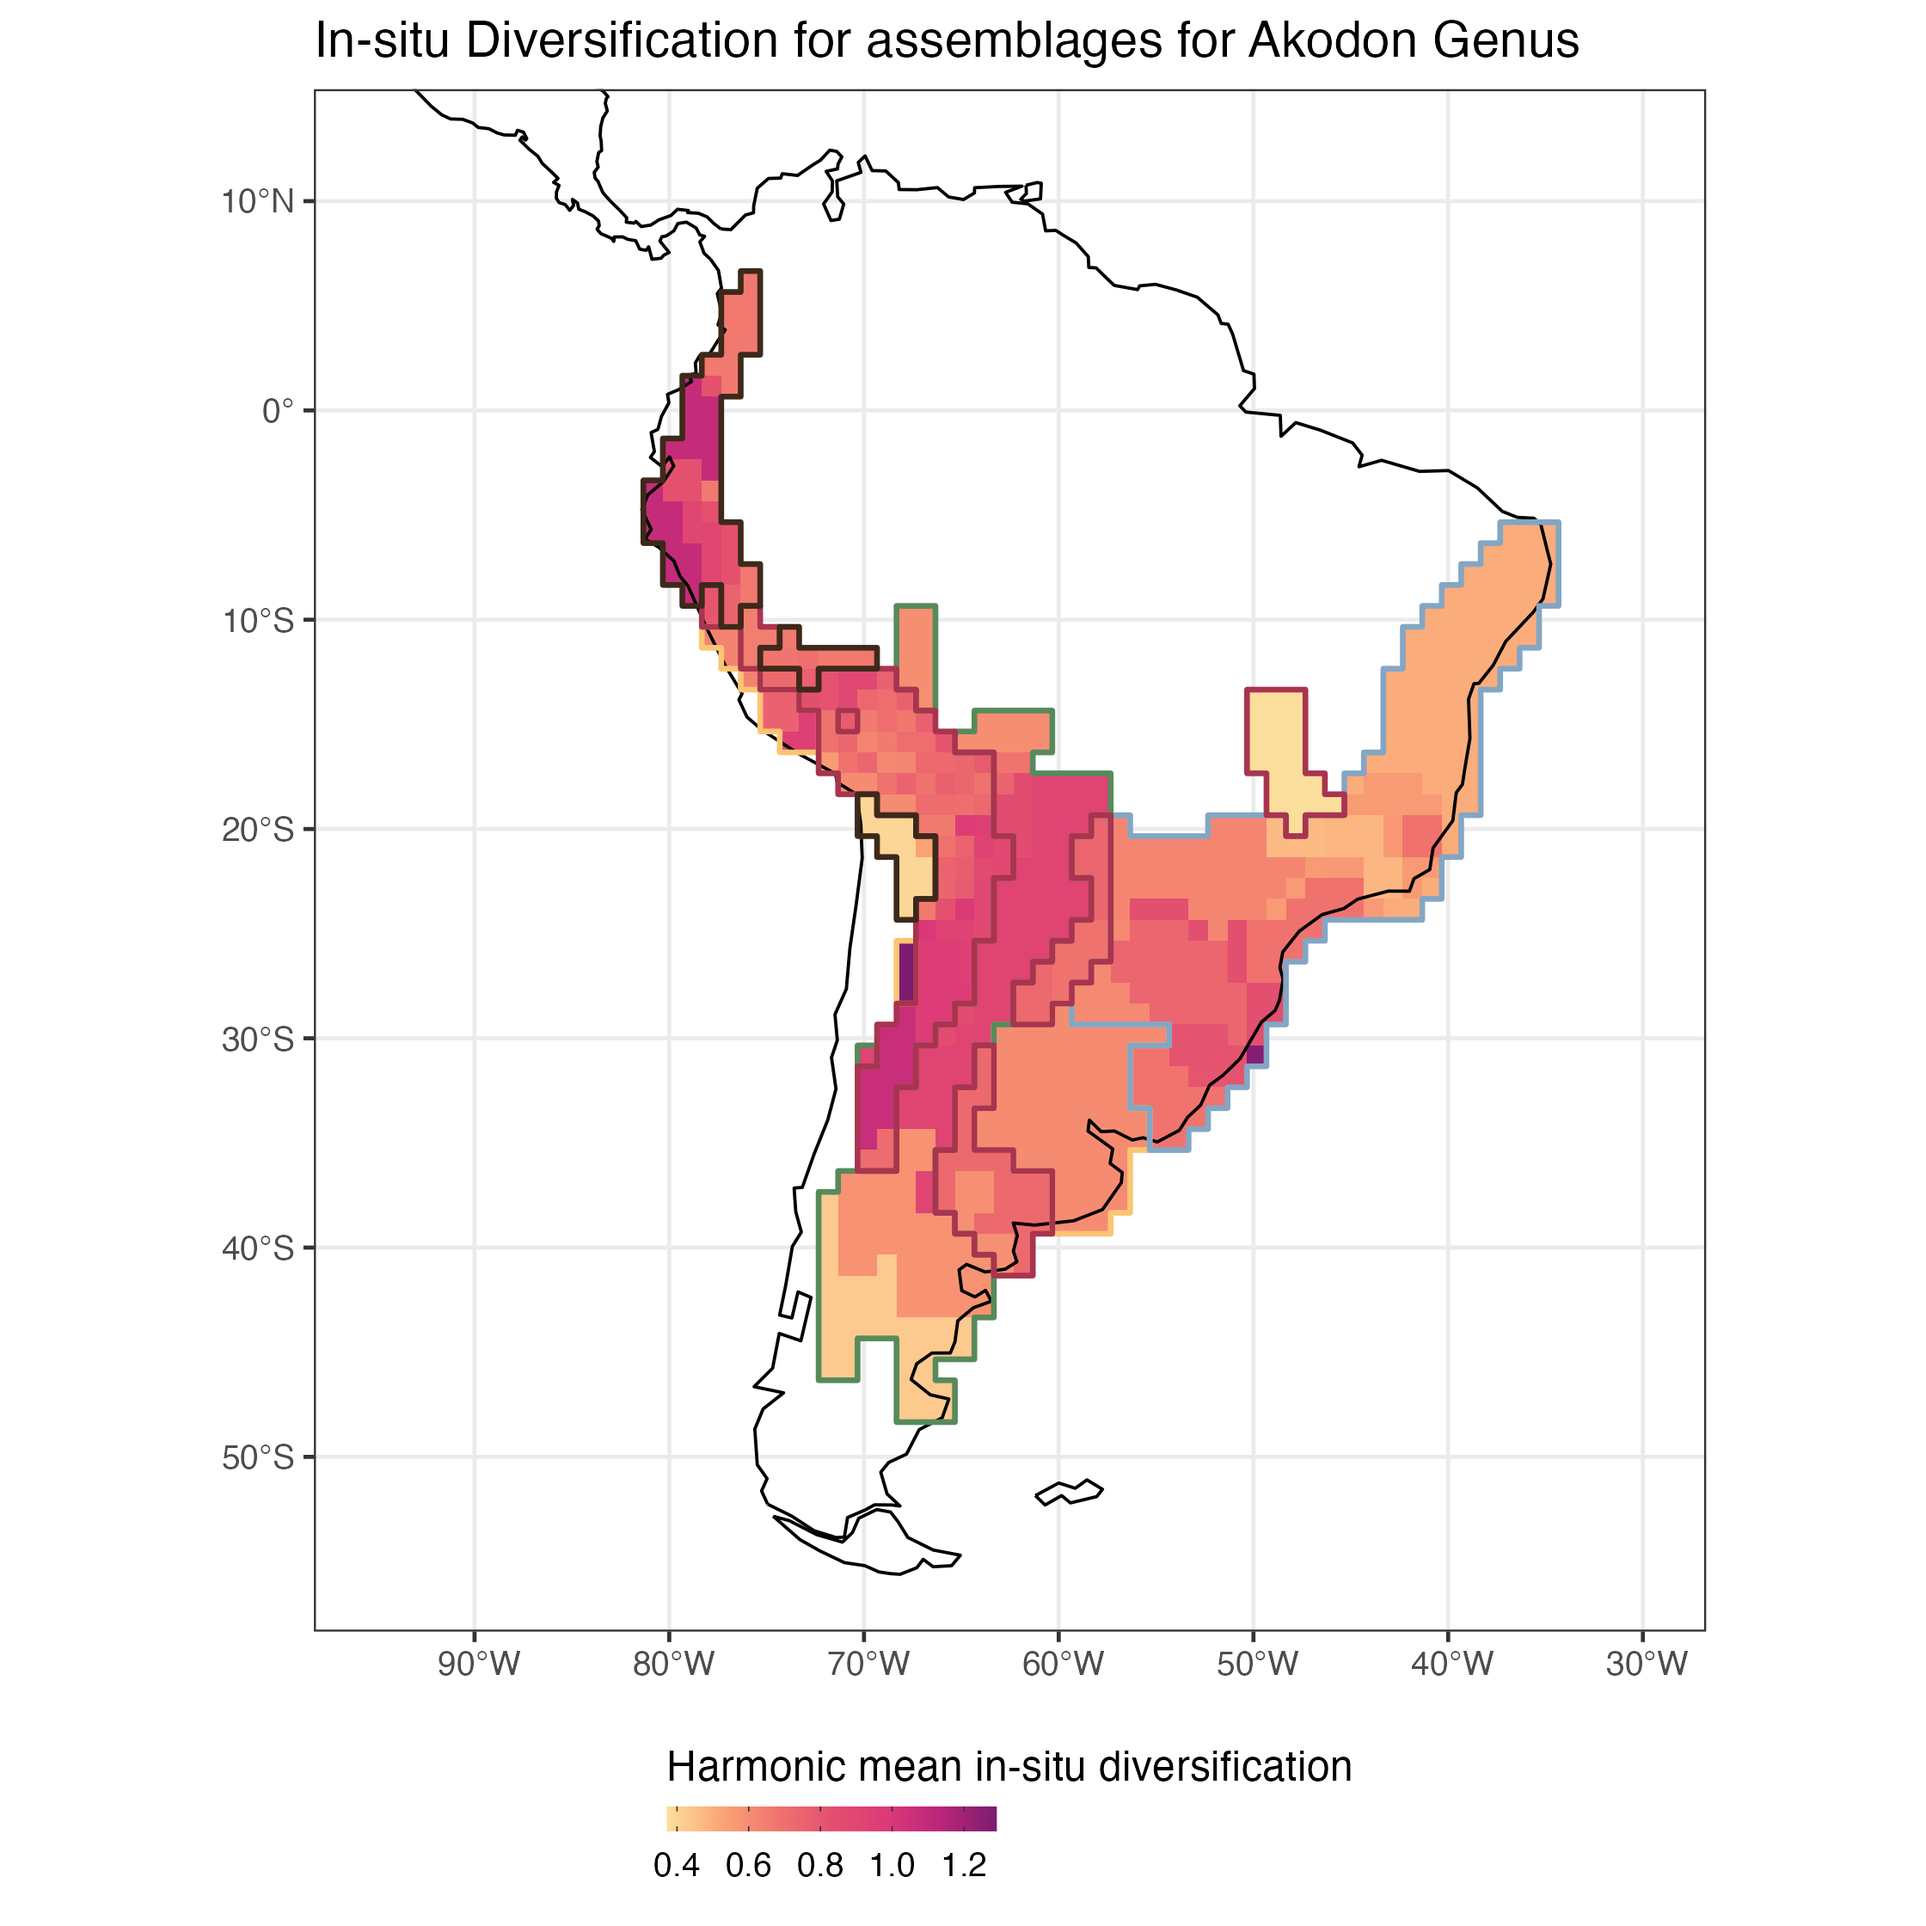
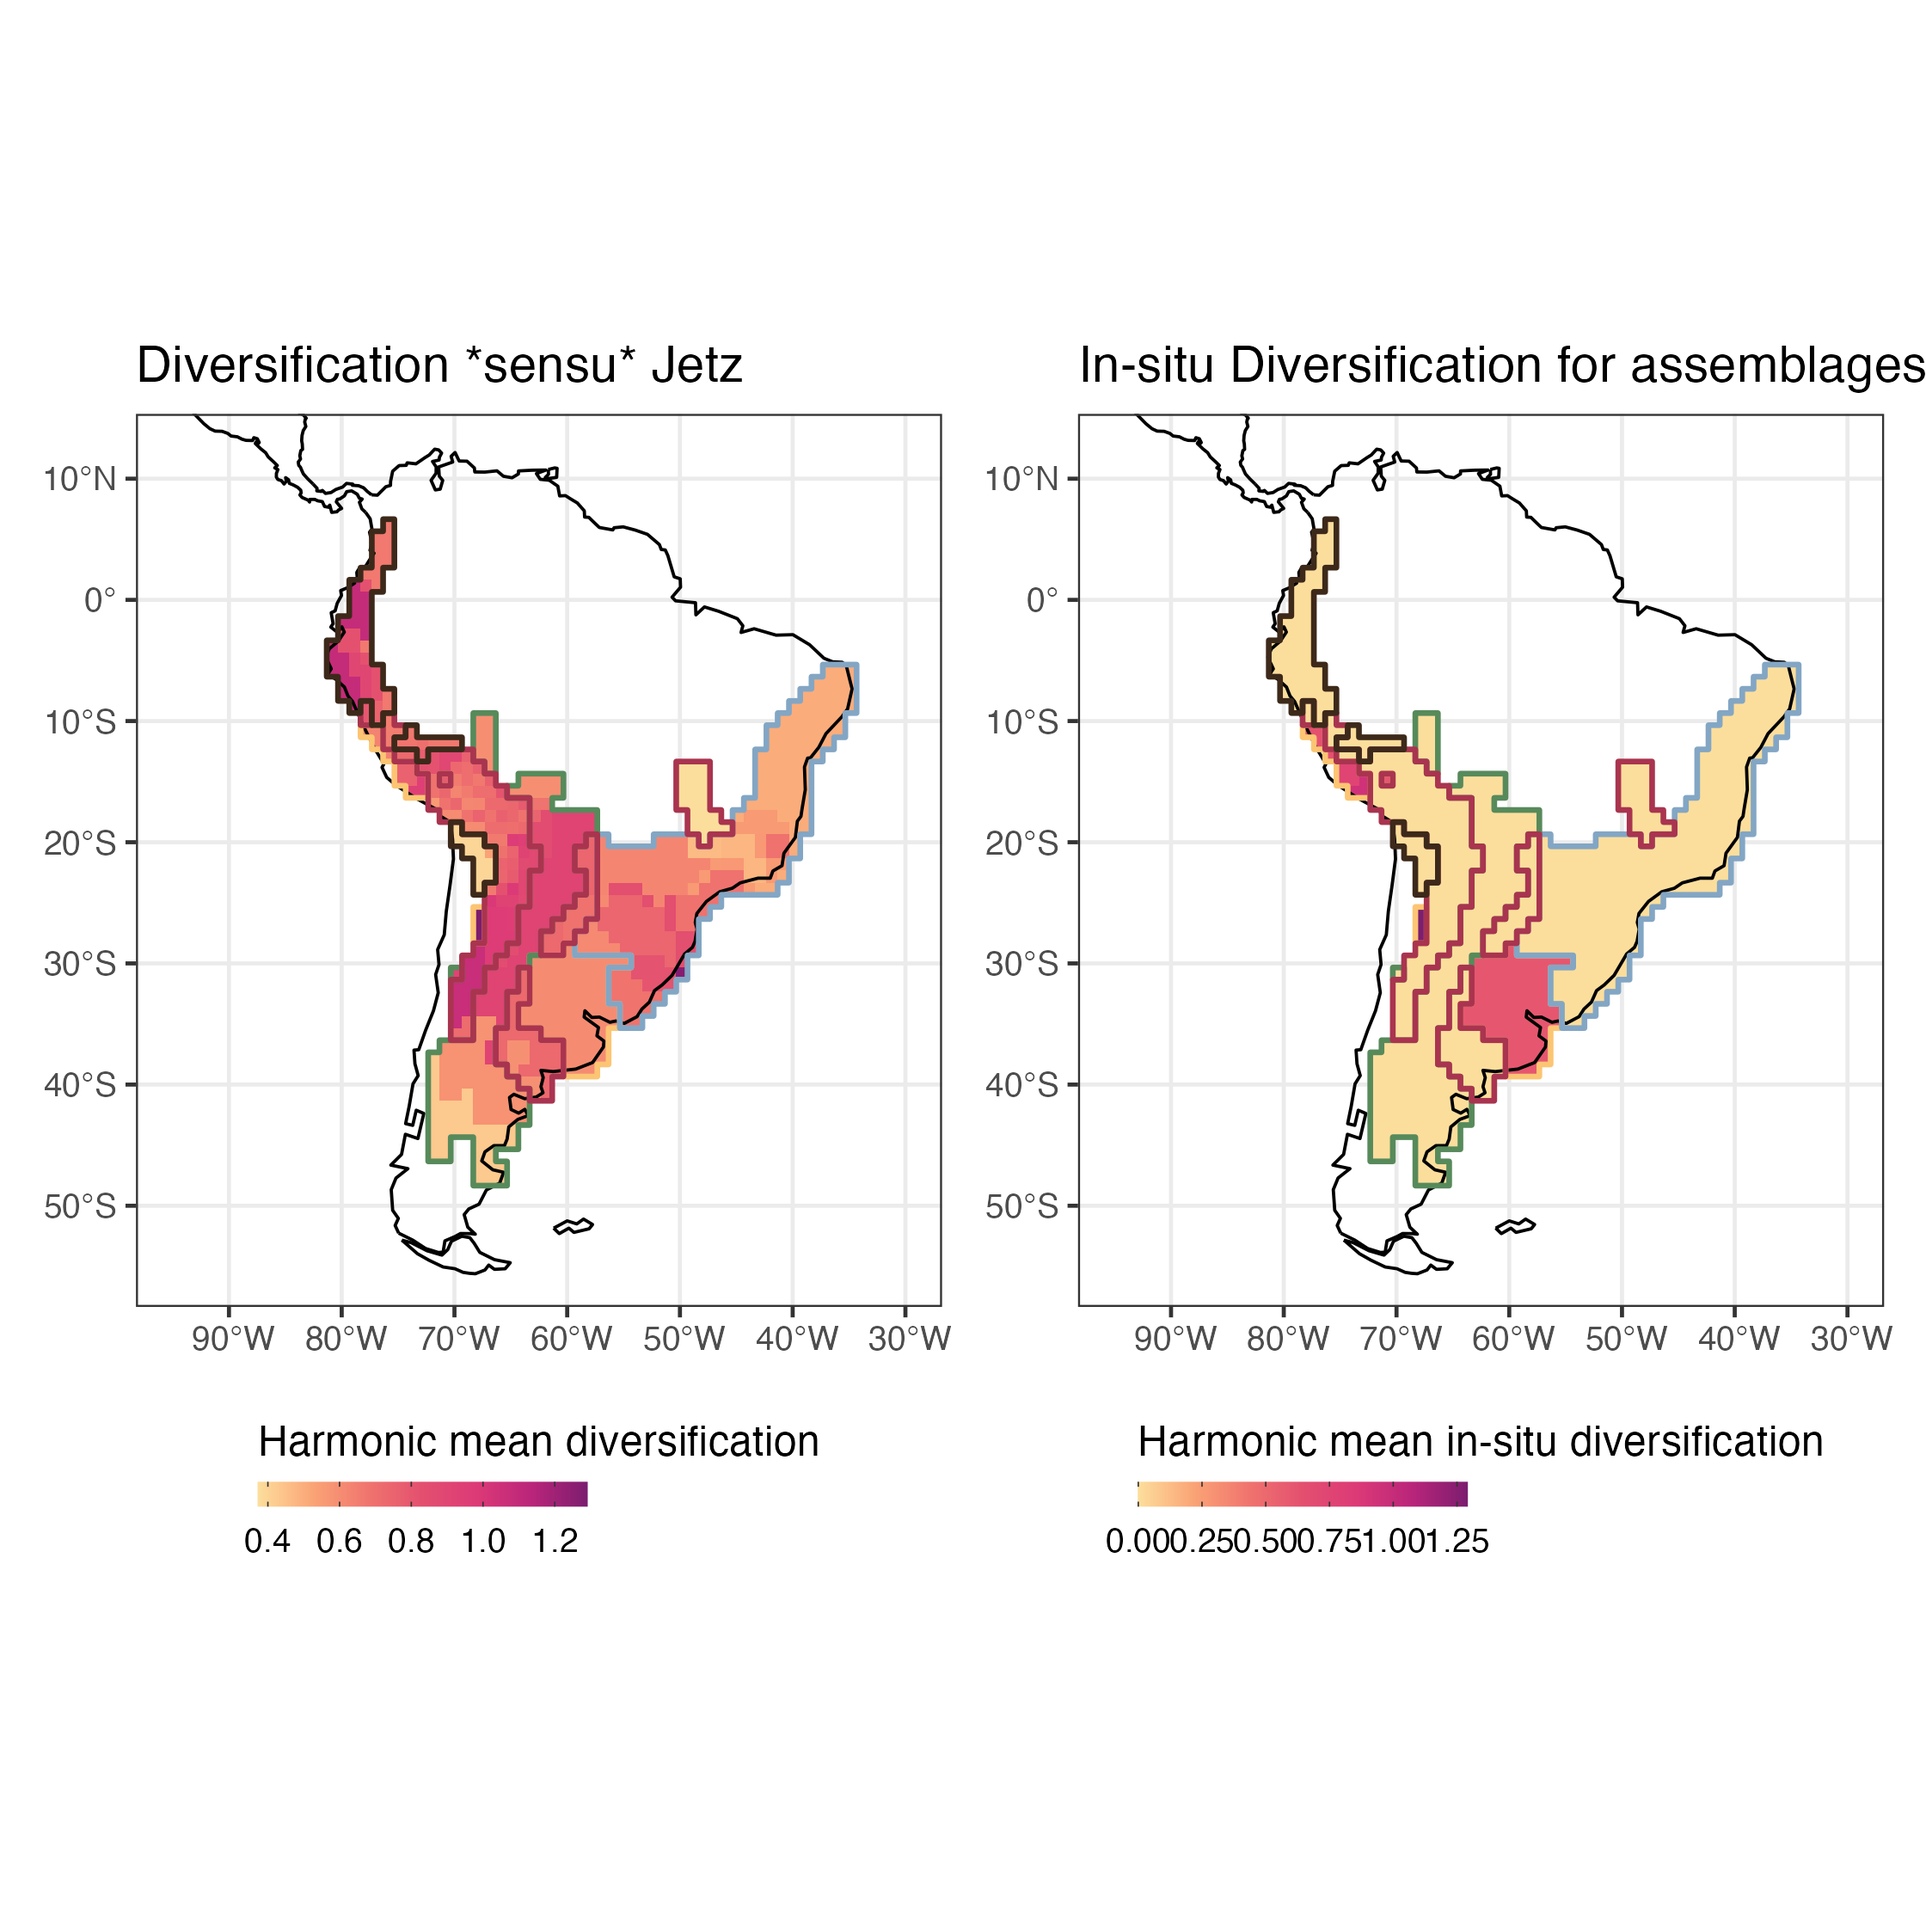
fixing error in diversification map

diff --git a/docs/articles/Intro_Herodotools_vignette.html b/docs/articles/Intro_Herodotools_vignette.html
@@ -419,6 +419,7 @@
                    site.region <span class="op">=</span>  <span class="va">site.region</span>, 
                    <span class="va">afi</span>, 
                    age <span class="op">=</span> <span class="va">age_comm</span><span class="op">$</span><span class="va">mean_age_per_assemblage</span>,
+                   diversification_model_based <span class="op">=</span> <span class="va">akodon_diversification</span><span class="op">$</span><span class="va">model_based_Jetz_harmonic_mean_site</span>,
                    diversification <span class="op">=</span> <span class="va">akodon_diversification</span><span class="op">$</span><span class="va">Jetz_harmonic_mean_site</span><span class="op">)</span>
 
 <span class="va">map_diversification</span> <span class="op">&lt;-</span> 
@@ -433,7 +434,33 @@
      fill <span class="op">=</span> <span class="cn">NA</span>, 
      size <span class="op">=</span> <span class="fl">0.7</span><span class="op">)</span> <span class="op">+</span>
    <span class="fu"><a href="https://ggplot2.tidyverse.org/reference/ggsf.html">coord_sf</a></span><span class="op">(</span>xlim <span class="op">=</span> <span class="va">map.limits</span><span class="op">$</span><span class="va">x</span>, ylim <span class="op">=</span> <span class="va">map.limits</span><span class="op">$</span><span class="va">y</span><span class="op">)</span> <span class="op">+</span>
-   <span class="fu"><a href="https://ggplot2.tidyverse.org/reference/labs.html">ggtitle</a></span><span class="op">(</span><span class="st">"In-situ Diversification for assemblages for Akodon Genus"</span><span class="op">)</span> <span class="op">+</span> 
+   <span class="fu"><a href="https://ggplot2.tidyverse.org/reference/labs.html">ggtitle</a></span><span class="op">(</span><span class="st">"Diversification *sensu* Jetz"</span><span class="op">)</span> <span class="op">+</span> 
+   <span class="fu"><a href="https://ggplot2.tidyverse.org/reference/ggtheme.html">theme_bw</a></span><span class="op">(</span><span class="op">)</span> <span class="op">+</span>
+   <span class="fu"><a href="https://ggplot2.tidyverse.org/reference/labs.html">labs</a></span><span class="op">(</span>fill <span class="op">=</span> <span class="st">"Harmonic mean diversification"</span><span class="op">)</span> <span class="op">+</span>
+    <span class="fu"><a href="https://ggplot2.tidyverse.org/reference/guides.html">guides</a></span><span class="op">(</span>fill <span class="op">=</span> <span class="fu"><a href="https://ggplot2.tidyverse.org/reference/guide_colourbar.html">guide_colorbar</a></span><span class="op">(</span>barheight <span class="op">=</span> <span class="fu"><a href="https://rdrr.io/r/grid/unit.html">unit</a></span><span class="op">(</span><span class="fl">2.3</span>, units <span class="op">=</span> <span class="st">"mm"</span><span class="op">)</span>,  
+                               direction <span class="op">=</span> <span class="st">"horizontal"</span>,
+                               ticks.colour <span class="op">=</span> <span class="st">"grey20"</span>,
+                               title.position <span class="op">=</span> <span class="st">"top"</span>,
+                               label.position <span class="op">=</span> <span class="st">"bottom"</span>,
+                               title.hjust <span class="op">=</span> <span class="fl">0.5</span><span class="op">)</span><span class="op">)</span> <span class="op">+</span>
+   <span class="fu"><a href="https://ggplot2.tidyverse.org/reference/theme.html">theme</a></span><span class="op">(</span>
+     legend.position <span class="op">=</span> <span class="st">"bottom"</span>,
+     axis.title <span class="op">=</span> <span class="fu"><a href="https://ggplot2.tidyverse.org/reference/element.html">element_blank</a></span><span class="op">(</span><span class="op">)</span>
+   <span class="op">)</span>
+
+<span class="va">map_diversification_model_based</span> <span class="op">&lt;-</span> 
+   <span class="va">sites</span> <span class="op">%&gt;%</span> 
+   <span class="fu"><a href="https://ggplot2.tidyverse.org/reference/ggplot.html">ggplot</a></span><span class="op">(</span><span class="op">)</span> <span class="op">+</span> 
+   <span class="fu"><a href="https://ggplot2.tidyverse.org/reference/geom_tile.html">geom_raster</a></span><span class="op">(</span><span class="fu"><a href="https://ggplot2.tidyverse.org/reference/aes.html">aes</a></span><span class="op">(</span>x <span class="op">=</span> <span class="va">LONG</span>, y <span class="op">=</span> <span class="va">LAT</span>, fill <span class="op">=</span> <span class="va">diversification_model_based</span><span class="op">)</span><span class="op">)</span> <span class="op">+</span> 
+   <span class="fu"><a href="https://rdrr.io/pkg/rcartocolor/man/carto_scale.html">scale_fill_carto_c</a></span><span class="op">(</span>type <span class="op">=</span> <span class="st">"quantitative"</span>, palette <span class="op">=</span> <span class="st">"SunsetDark"</span><span class="op">)</span> <span class="op">+</span>
+   <span class="fu"><a href="https://ggplot2.tidyverse.org/reference/ggsf.html">geom_sf</a></span><span class="op">(</span>data <span class="op">=</span> <span class="va">coastline</span>, size <span class="op">=</span> <span class="fl">0.4</span><span class="op">)</span> <span class="op">+</span>
+   <span class="fu"><a href="https://ggplot2.tidyverse.org/reference/ggsf.html">geom_sf</a></span><span class="op">(</span>
+     data <span class="op">=</span> <span class="va">sf.evoregion</span>, 
+     color <span class="op">=</span> <span class="fu"><a href="https://rdrr.io/pkg/terra/man/flip.html">rev</a></span><span class="op">(</span><span class="va">col_five_hues</span><span class="op">)</span>,
+     fill <span class="op">=</span> <span class="cn">NA</span>, 
+     size <span class="op">=</span> <span class="fl">0.7</span><span class="op">)</span> <span class="op">+</span>
+   <span class="fu"><a href="https://ggplot2.tidyverse.org/reference/ggsf.html">coord_sf</a></span><span class="op">(</span>xlim <span class="op">=</span> <span class="va">map.limits</span><span class="op">$</span><span class="va">x</span>, ylim <span class="op">=</span> <span class="va">map.limits</span><span class="op">$</span><span class="va">y</span><span class="op">)</span> <span class="op">+</span>
+   <span class="fu"><a href="https://ggplot2.tidyverse.org/reference/labs.html">ggtitle</a></span><span class="op">(</span><span class="st">"In-situ Diversification"</span><span class="op">)</span> <span class="op">+</span> 
    <span class="fu"><a href="https://ggplot2.tidyverse.org/reference/ggtheme.html">theme_bw</a></span><span class="op">(</span><span class="op">)</span> <span class="op">+</span>
    <span class="fu"><a href="https://ggplot2.tidyverse.org/reference/labs.html">labs</a></span><span class="op">(</span>fill <span class="op">=</span> <span class="st">"Harmonic mean in-situ diversification"</span><span class="op">)</span> <span class="op">+</span>
     <span class="fu"><a href="https://ggplot2.tidyverse.org/reference/guides.html">guides</a></span><span class="op">(</span>fill <span class="op">=</span> <span class="fu"><a href="https://ggplot2.tidyverse.org/reference/guide_colourbar.html">guide_colorbar</a></span><span class="op">(</span>barheight <span class="op">=</span> <span class="fu"><a href="https://rdrr.io/r/grid/unit.html">unit</a></span><span class="op">(</span><span class="fl">2.3</span>, units <span class="op">=</span> <span class="st">"mm"</span><span class="op">)</span>,  
@@ -445,7 +472,10 @@
    <span class="fu"><a href="https://ggplot2.tidyverse.org/reference/theme.html">theme</a></span><span class="op">(</span>
      legend.position <span class="op">=</span> <span class="st">"bottom"</span>,
      axis.title <span class="op">=</span> <span class="fu"><a href="https://ggplot2.tidyverse.org/reference/element.html">element_blank</a></span><span class="op">(</span><span class="op">)</span>
-   <span class="op">)</span></code></pre></div>
+   <span class="op">)</span>
+
+
+<span class="va">map_diversification_complete</span> <span class="op">&lt;-</span> <span class="va">map_diversification</span> <span class="op">+</span> <span class="va">map_diversification_model_based</span></code></pre></div>
 <p><img src="Fig5_diversification_akodon.png" width="747"></p>
 </div>
 </div>
